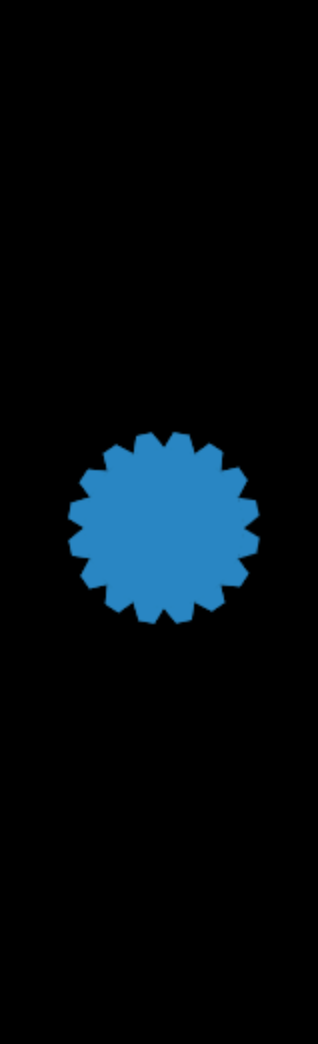
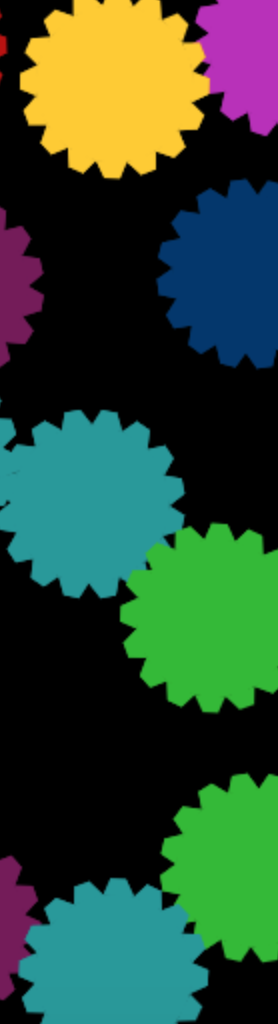
last commit

diff --git a/pages/gallery/color-gear.html b/pages/gallery/color-gear.html
@@ -4,7 +4,7 @@
     <meta charset="UTF-8">
     <meta name="viewport" content="width=device-width, initial-scale=1.0">
     <meta http-equiv="X-UA-Compatible" content="ie=edge">
-	<title>Colored gear</title>
+	<title>Collision Gears</title>
 	<link rel="stylesheet" href="https://cdnjs.cloudflare.com/ajax/libs/font-awesome/4.7.0/css/font-awesome.min.css">
 	<link href="https://fonts.googleapis.com/css?family=Lato:100,300,400,700,900" rel="stylesheet">
     <link rel="stylesheet" href="../../css/main.css">
@@ -16,7 +16,7 @@
 			<a href="../main.html" class="prev">&#9001;</a>
 		</div>
 		<div class="canvas__wrapper-info">
-			<h1 class="canvas-details canvas-details-title">colored gears</h1>
+			<h1 class="canvas-details canvas-details-title">Collision Gears</h1>
 			<h1 class="canvas-details canvas-details-line"></h1>
 			<h1 class="canvas-details canvas-details-date">Jan 03, 2018</h1>
 		</div>
@@ -31,10 +31,10 @@
 	
 			<nav class="navigation__nav">
 				<ul class="navigation__list">
-					<li class="navigation__item"><a href="#" class="navigation__link">Home</a></li>
-					<li class="navigation__item"><a href="#" class="navigation__link">All projects</a></li>
-					<li class="navigation__item"><a href="#" class="navigation__link">source code</a></li>
-					<li class="navigation__item"><a href="#" class="navigation__link">contact</a></li>
+						<li class="navigation__item"><a href="../../index.html" class="navigation__link">Home</a></li>
+						<li class="navigation__item"><a href="../main.html" class="navigation__link">All projects</a></li>
+						<li class="navigation__item"><a href="https://github.com/mystreie1126/Animation-gallery" target="_blank" class="navigation__link">source code</a></li>
+						<li class="navigation__item"><a href="#" class="navigation__link" id="contact">contact</a></li>
 					<div class="navigation__list-icon">
 						<a href="https://twitter.com/JianNCI" target="_blank" class="social-icon"><i class="fa fa-twitter"></i></a>
 						<a href="https://jianqilu1126@gmail.com" target="_blank" class="social-icon" target="_blank"><i class="fa fa-google"></i></a>
@@ -46,9 +46,194 @@
 	
 		</div>
 
+
+
+
+
 <script>
+console.log(123);
+
+//Initial Setup
+
+var canvas = document.querySelector('canvas');
+var ctx = canvas.getContext('2d');
+
+canvas.width = window.innerWidth;
+canvas.height = window.innerHeight;
+
+//Variables 
+
+var mouse = {
+	x: innerWidth/2,
+	y: innerHeight/2
+};
+
+var colors = [
+	'#00366E',
+	'#BB0D00',
+	'#75185A',
+	'#FFCC17',
+	'#BA27BB',
+	'#20999B',
+	'#2BBB2D'
+];
+
+//Event Listeners
+addEventListener('mousemove', event => {
+	mouse.x = event.clientX;
+	mouse.y = event.clientY;
+
+});
+
+addEventListener('resize', () => {
+	canvas.width = innerWidth;
+	canvas.height = innerHeight;
+
+	init();
+});
+
+// Utility Functions
+
+function randomIntFromRange(min,max){
+	return Math.floor(Math.random()* (max - min + 1) + min);
+}
+
+function randomColor(colors){
+	return colors[Math.floor(Math.random()* colors.length)];
+}
+
+
+function distance(x1,y1,x2,y2){
+	let xDist = x2 - x1;
+	let yDist = y2 - y1;
+
+	return Math.sqrt(Math.pow(xDist, 2) + Math.pow(yDist,2));
+}
+
+
+//Objects 
+
+function Particle(x,y,radius,rad,color){
+
+	//big circle attributes
+	this.x = x;
+	this.y = y;
+	this.radius = radius;
+	this.dot_r = 3;
+	this.color = color;
+	this.width = this.radius/5;
+	this.rad = rad;
+	this.rad_rate = Math.PI/8;
+	this.gearArr = {
+		startX:[],startY:[],endX:[],endY:[],outX1:[],outY1:[],outX2:[],outY2:[]
+	}
+	this.init = function(){
+		for(let i = 0; i < 30; i++){
+			this.gearArr.startX.push(this.x + this.radius*Math.cos(this.rad));
+			this.gearArr.startY.push(this.y + this.radius*Math.sin(this.rad));
+			this.gearArr.endX.push(this.x + this.radius*Math.cos(this.rad + this.rad_rate));
+			this.gearArr.endY.push(this.y + this.radius*Math.sin(this.rad + this.rad_rate));
+			this.gearArr.outX1.push(this.x + (this.radius+this.width)*Math.cos(this.rad + this.rad_rate/4));
+			this.gearArr.outY1.push(this.y + (this.radius+this.width)*Math.sin(this.rad + this.rad_rate/4));
+			this.gearArr.outX2.push(this.x + (this.radius+this.width)*Math.cos(this.rad + (this.rad_rate/3)*2));
+			this.gearArr.outY2.push(this.y + (this.radius+this.width)*Math.sin(this.rad + (this.rad_rate/3)*2));
+	
+			this.rad += this.rad_rate;
+		}
+	};
+	this.init();
+	//backgroud circle
+	this.background_circle = () => {
+			
+	};
+	this.draw = () => {
+		ctx.beginPath();
+		ctx.arc(this.x, this.y,this.radius,0, Math.PI*2, false);
+		ctx.fillStyle = this.color;
+		ctx.fill();
+		ctx.closePath();
+		for(let i = 0; i < 30; i++){
+			ctx.beginPath();
+			ctx.moveTo(this.gearArr.startX[i],this.gearArr.startY[i]);
+			ctx.lineTo(this.gearArr.outX1[i],this.gearArr.outY1[i]);
+			ctx.lineTo(this.gearArr.outX2[i],this.gearArr.outY2[i]);
+			ctx.lineTo(this.gearArr.endX[i],this.gearArr.endY[i]);
+			ctx.fillStyle = this.color;
+			ctx.fill();
+		}
+	};	
+ }
+
+
+
+//Implementation 
+function Gear(x,y,r,rad){
+	this.x = x;
+	this.y = y;
+	this.r= r;
+	this.rad = rad;
+	this.speed = Math.random()*0.07;
+	this.color = randomColor(colors);
+	this.update = function(){
+		let gear = new Particle(this.x,this.y,this.r,this.rad,this.color);
+		gear.draw();
+		
+		this.rad+=this.speed;
+	}
+}
+
+
+let gears;
+
+function init(){
+	gears = [];
+	for(let i = 0; i < 40; i++){
+		let x = Math.random()*canvas.width;
+		let y = Math.random()*canvas.height;
+
+		const radius = canvas.width/20;
+		const rad = 2;
+
+		if(i !== 0){
+			for (let j = 0; j < gears.length; j++){
+				if(distance(x, y, gears[j].x, gears[j].y) - radius * 2 < 0){
+					x = Math.random()* canvas.width;
+					y = Math.random()* canvas.height;
+
+					j= -1;
+				}
+
+			}
+		}
+
+
+
+
+		gears.push(new Gear(x,y,radius,rad));
+	}
+
+}
+
+//Animation loop
+
+function animate(){
+	requestAnimationFrame(animate);
+	ctx.clearRect(0,0,canvas.width,canvas.height);
+	
+	gears.forEach((e) =>{
+		e.update();
+	});
+	
+}
+
+init();
+animate();
+
+
 
 
 </script>
+<script src="../../node_modules/jquery/dist/jquery.min.js"></script>
+<script src="../../script/app.js"></script>
 </body>
 </html>

diff --git a/index.html b/index.html
@@ -42,7 +42,7 @@
         <canvas class="home_wrapper-canvas"></canvas>
         <div class="home_wrapper-intro">
             <div id="my_name">Jianqi Lu</div>
-            <div id="quotes">A web developer has a willing to be in a position to change the world</div>
+            <div id="quotes">A web developer who elaborates his strength by learning &amp; growing</div>
             <div class="view_all-container">
                 <div href="pages/main.html" class="view_all-btn">view the pieces</div>
             </div>     
@@ -55,8 +55,8 @@
 			<a href="pages/gallery/square-rising.html" class="img-link img-link-4 animate-link-4"><h3 class="img-heading">Rising Squares</h3></a>
 			<a href="pages/gallery/lighting-tunnell.html" class="img-link img-link-5 animate-link-5"><h3 class="img-heading">Lighting Tunnell</h3></a>
 			<a href="pages/gallery/growing-rect.html" class="img-link img-link-6 animate-link-6"><h3 class="img-heading">Colored Lines</h3></a>
+			<a href="pages/gallery/color-gear.html" class="img-link img-link-8 animate-link-8"><h3 class="img-heading">Collision Gears</h3></a>
 			<a href="pages/gallery/grid_effect-home.html" class="img-link img-link-7 animate-link-7"><h3 class="img-heading">Growing Rects</h3></a>
-			<a href="pages/gallery/color-gear.html" class="img-link img-link-8 animate-link-8"><h3 class="img-heading">Collion Gears</h3></a>
 		</div>
 
 

diff --git a/pages/main.html b/pages/main.html
@@ -46,8 +46,8 @@
         <a href="gallery/square-rising.html" class="img-link img-link-4 animate-link-4"><h3 class="img-heading">Rising Squares</h3></a>
         <a href="gallery/lighting-tunnell.html" class="img-link img-link-5 animate-link-5"><h3 class="img-heading">Lighting Tunnell</h3></a>
         <a href="gallery/growing-rect.html" class="img-link img-link-6 animate-link-6"><h3 class="img-heading">Colored Lines</h3></a>
-        <a href="gallery/grid_effect-home.html" class="img-link img-link-7 animate-link-7"><h3 class="img-heading">Growing Rects</h3></a>
-        <a href="gallery/color-gear.html" class="img-link img-link-8 animate-link-8"><h3 class="img-heading">Collion Gears</h3></a>
+        <a href="gallery/color-gear.html" class="img-link img-link-8 animate-link-7"><h3 class="img-heading">Collision Gears</h3></a>
+        <a href="gallery/grid_effect-home.html" class="img-link img-link-7 animate-link-8"><h3 class="img-heading">Growing Rects</h3></a>
 
 
     </div>

diff --git a/css/main.css b/css/main.css
@@ -490,7 +490,8 @@ body {
     height: 100%;
     border-radius: 50%;
     opacity: 0;
-    transition: all 2s ease-in; }
+    transform: translateX(-100rem);
+    transition: all .5s ease-in; }
     .navigation__list-icon .social-icon:link:not(:last-child),
     .navigation__list-icon .social-icon:visited:not(:last-child) {
       margin-right: 1.5rem; }

diff --git a/sass/_social-icon.scss b/sass/_social-icon.scss
@@ -10,8 +10,8 @@
         height: 100%;
         border-radius: 50%;
         opacity: 0;
-        
-        transition: all 2s ease-in;
+        transform: translateX(-100rem);
+        transition: all .5s ease-in;
 
         &:not(:last-child){
             margin-right: 1.5rem;

diff --git a/script/app.js b/script/app.js
@@ -27,7 +27,8 @@ $(document).ready(function(){
 
     $('#contact').click(()=>{
         $('.social-icon').css({
-            'opacity':1
+            'opacity':1,
+            'transform':'translateX(0)'
         });
 
         console.log(123);
